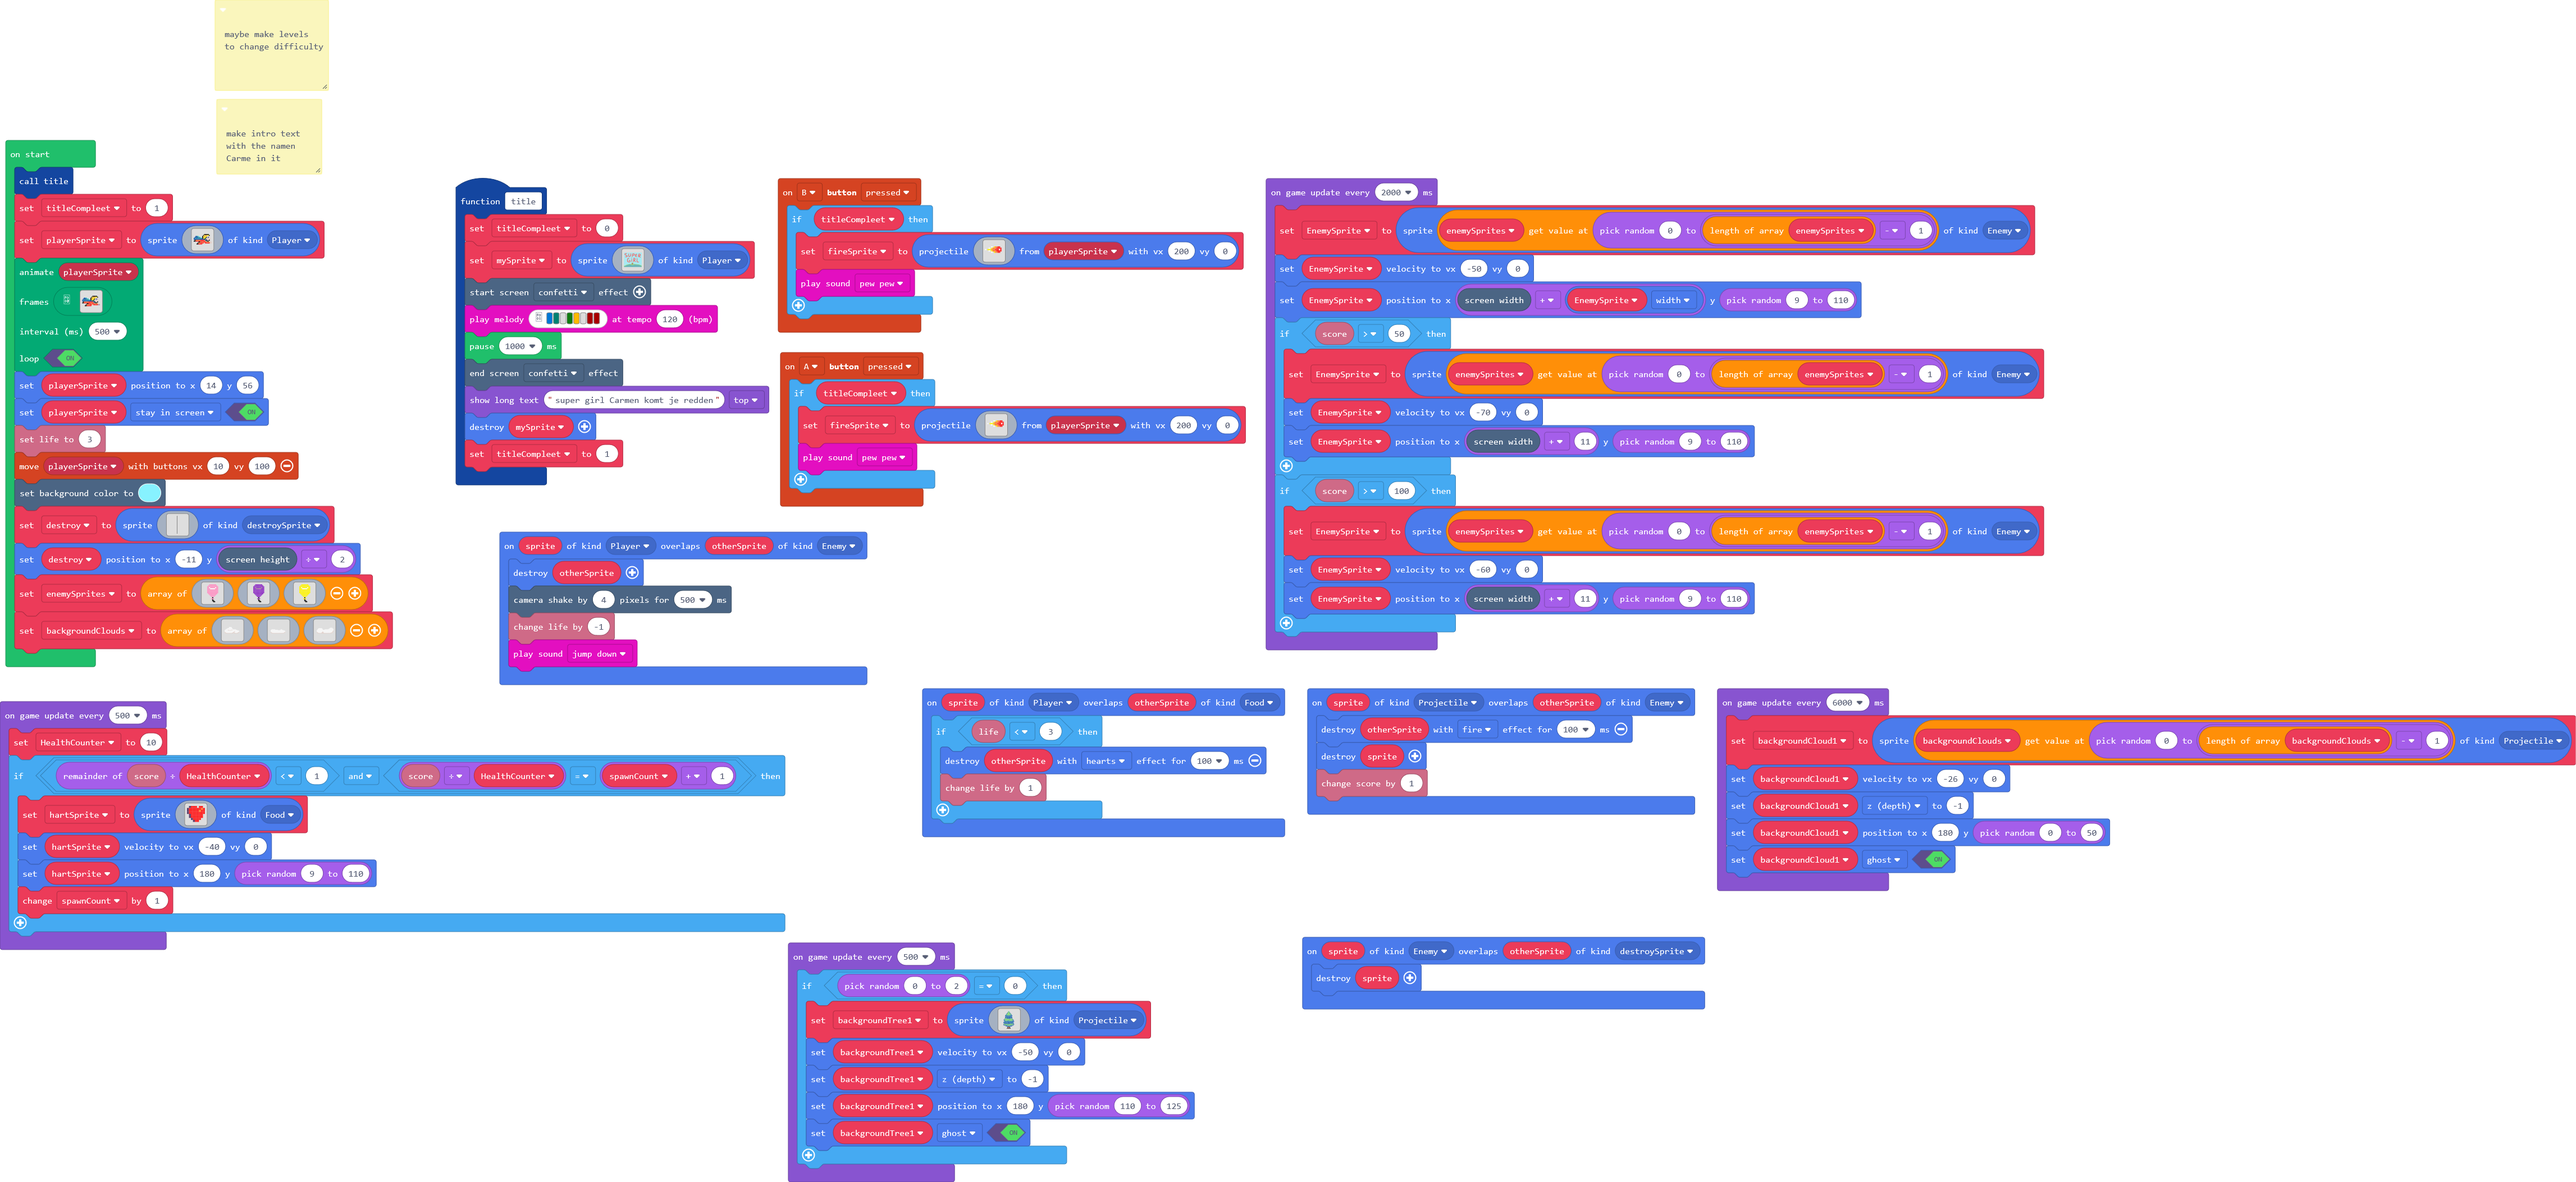
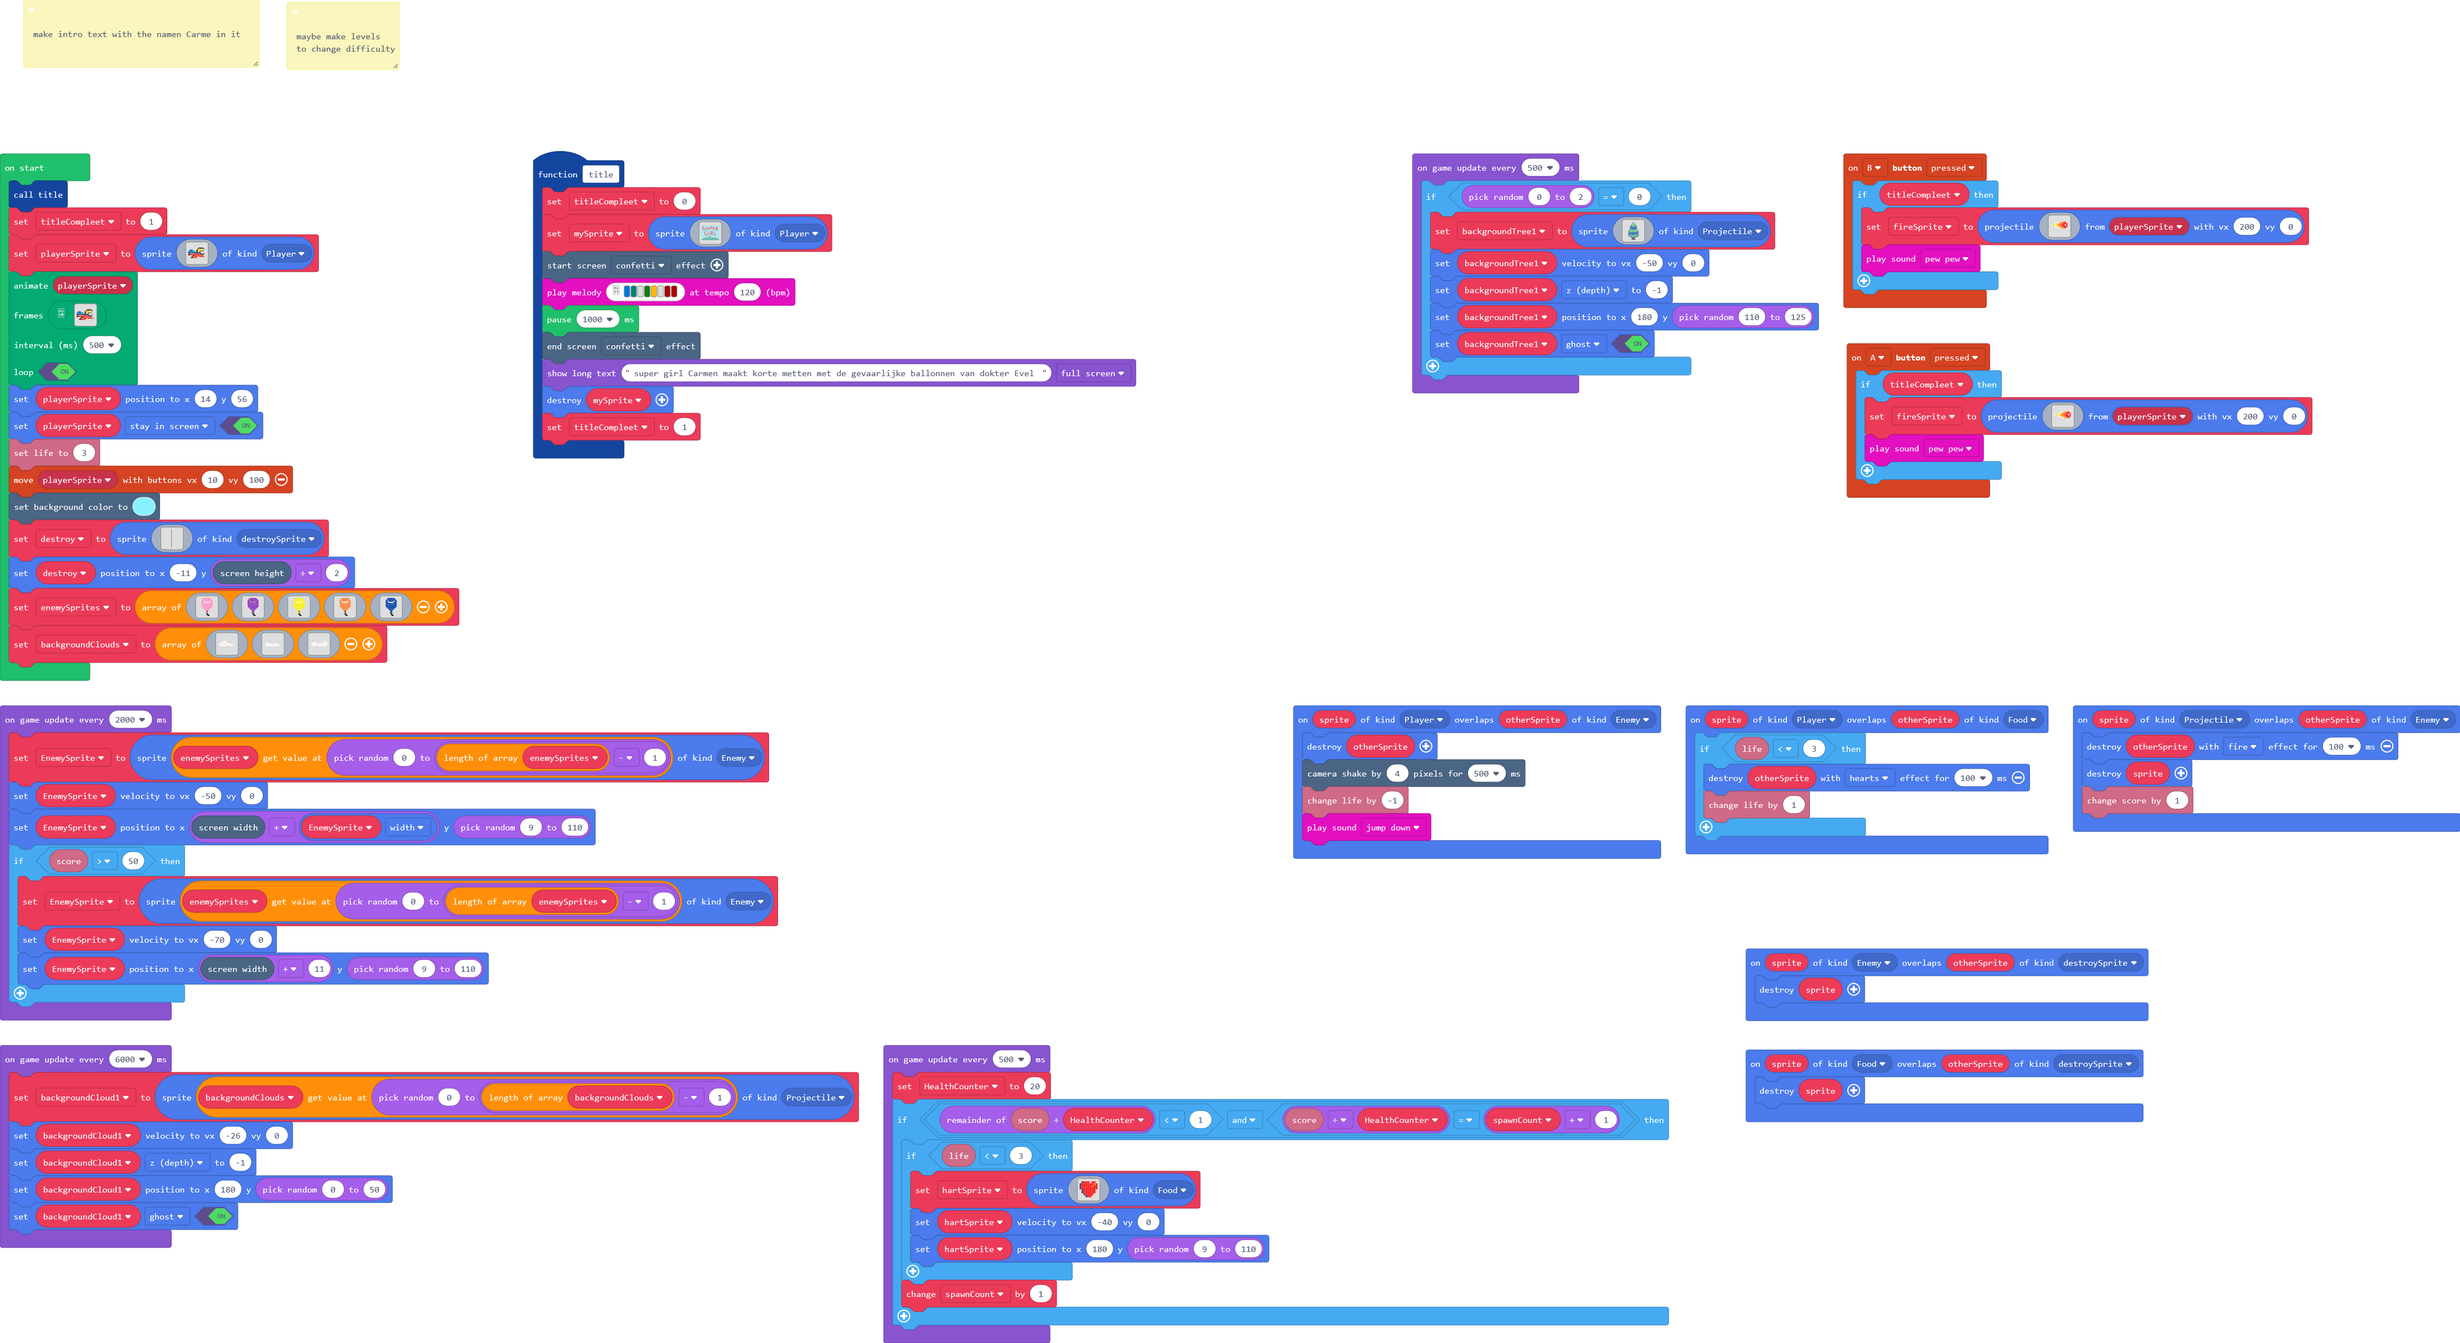
changed health spawn and destroy barrier

diff --git a/main.ts b/main.ts
@@ -3,7 +3,10 @@ namespace SpriteKind {
     export const destroySprite = SpriteKind.create()
 }
 /**
- * maybe make levels 
+ * make intro text with the namen Carme in it
+ */
+/**
+ * maybe make levels
  * 
  * to change difficulty
  */
@@ -143,7 +146,7 @@ function title () {
     music.playMelody("E F - G A - C5 C5 ", 120)
     pause(1000)
     effects.confetti.endScreenEffect()
-    game.showLongText("super girl Carmen komt je redden", DialogLayout.Top)
+    game.showLongText("super girl Carmen maakt korte metten met de gevaarlijke ballonnen van dokter Evel ", DialogLayout.Full)
     mySprite.destroy()
     titleCompleet = 1
 }
@@ -186,6 +189,9 @@ controller.A.onEvent(ControllerButtonEvent.Pressed, function () {
         music.pewPew.play()
     }
 })
+sprites.onOverlap(SpriteKind.Food, SpriteKind.destroySprite, function (sprite, otherSprite) {
+    sprite.destroy()
+})
 sprites.onOverlap(SpriteKind.Enemy, SpriteKind.destroySprite, function (sprite, otherSprite) {
     sprite.destroy()
 })
@@ -195,14 +201,11 @@ sprites.onOverlap(SpriteKind.Player, SpriteKind.Enemy, function (sprite, otherSp
     info.changeLifeBy(-1)
     music.jumpDown.play()
 })
-/**
- * make intro text with the namen Carme in it
- */
 let backgroundCloud1: Sprite = null
-let backgroundTree1: Sprite = null
 let hartSprite: Sprite = null
 let spawnCount = 0
 let HealthCounter = 0
+let backgroundTree1: Sprite = null
 let EnemySprite: Sprite = null
 let fireSprite: Sprite = null
 let mySprite: Sprite = null
@@ -446,6 +449,44 @@ a a a a a a a a a a a
 . . . . . f . . . . . 
 . . . . . f f . . . . 
 . . . . . . f f . . . 
+`, img`
+. . 4 4 4 4 4 4 4 . . 
+. 4 4 4 4 4 4 4 4 4 . 
+4 4 4 4 4 4 4 4 4 4 4 
+4 4 1 4 4 4 4 4 1 4 4 
+4 4 4 1 1 1 1 1 4 4 4 
+4 4 4 4 4 4 4 4 4 4 4 
+4 4 4 4 4 4 4 4 4 4 4 
+4 4 4 4 4 4 4 4 4 4 4 
+4 4 4 4 4 4 4 4 4 4 4 
+. 4 4 4 4 4 4 4 4 4 . 
+. . 4 4 4 4 4 4 4 . . 
+. . . 4 4 4 4 4 . . . 
+. . . . 4 4 4 . . . . 
+. . . . . f . . . . . 
+. . . . 4 4 4 . . . . 
+. . . . . f . . . . . 
+. . . . . f f . . . . 
+. . . . . . f f . . . 
+`, img`
+. . 8 8 8 8 8 8 8 . . 
+. 8 8 8 8 8 8 8 8 8 . 
+8 8 8 8 8 8 8 8 8 8 8 
+8 8 1 8 8 8 8 8 1 8 8 
+8 8 8 1 1 1 1 1 8 8 8 
+8 8 8 8 8 8 8 8 8 8 8 
+8 8 8 8 8 8 8 8 8 8 8 
+8 8 8 8 8 8 8 8 8 8 8 
+8 8 8 8 8 8 8 8 8 8 8 
+. 8 8 8 8 8 8 8 8 8 . 
+. . 8 8 8 8 8 8 8 . . 
+. . . 8 8 8 8 8 . . . 
+. . . . 8 8 8 . . . . 
+. . . . . f . . . . . 
+. . . . 8 8 8 . . . . 
+. . . . . f . . . . . 
+. . . . . f f . . . . 
+. . . . . . f f . . . 
 `]
 let backgroundClouds = [img`
 . . . . . . . . . . . . . . . . . . . . . . . . . . . . . . . . . . . . . . . . . . . . . 
@@ -520,29 +561,6 @@ game.onUpdateInterval(2000, function () {
         EnemySprite.setVelocity(-70, 0)
         EnemySprite.setPosition(scene.screenWidth() + 11, Math.randomRange(9, 110))
     }
-    if (info.score() > 100) {
-        EnemySprite = sprites.create(enemySprites[Math.randomRange(0, enemySprites.length - 1)], SpriteKind.Enemy)
-        EnemySprite.setVelocity(-60, 0)
-        EnemySprite.setPosition(scene.screenWidth() + 11, Math.randomRange(9, 110))
-    }
-})
-game.onUpdateInterval(500, function () {
-    HealthCounter = 10
-    if (info.score() % HealthCounter < 1 && info.score() / HealthCounter == spawnCount + 1) {
-        hartSprite = sprites.create(img`
-. c 2 2 2 . 2 2 . 
-c 2 2 2 2 2 2 4 2 
-c 2 2 2 2 2 4 2 2 
-c 2 2 2 2 2 2 2 2 
-. c 2 2 2 2 2 2 . 
-. c 2 2 2 2 2 2 . 
-. . c 2 2 2 2 . . 
-. . . c 2 2 . . . 
-`, SpriteKind.Food)
-        hartSprite.setVelocity(-40, 0)
-        hartSprite.setPosition(180, Math.randomRange(9, 110))
-        spawnCount += 1
-    }
 })
 game.onUpdateInterval(500, function () {
     if (Math.randomRange(0, 2) == 0) {
@@ -592,6 +610,26 @@ game.onUpdateInterval(500, function () {
         backgroundTree1.z = -1
         backgroundTree1.setPosition(180, Math.randomRange(110, 125))
         backgroundTree1.setFlag(SpriteFlag.Ghost, true)
+    }
+})
+game.onUpdateInterval(500, function () {
+    HealthCounter = 20
+    if (info.score() % HealthCounter < 1 && info.score() / HealthCounter == spawnCount + 1) {
+        if (info.life() < 3) {
+            hartSprite = sprites.create(img`
+. c 2 2 2 . 2 2 . 
+c 2 2 2 2 2 2 4 2 
+c 2 2 2 2 2 4 2 2 
+c 2 2 2 2 2 2 2 2 
+. c 2 2 2 2 2 2 . 
+. c 2 2 2 2 2 2 . 
+. . c 2 2 2 2 . . 
+. . . c 2 2 . . . 
+`, SpriteKind.Food)
+            hartSprite.setVelocity(-40, 0)
+            hartSprite.setPosition(180, Math.randomRange(9, 110))
+        }
+        spawnCount += 1
     }
 })
 game.onUpdateInterval(6000, function () {
